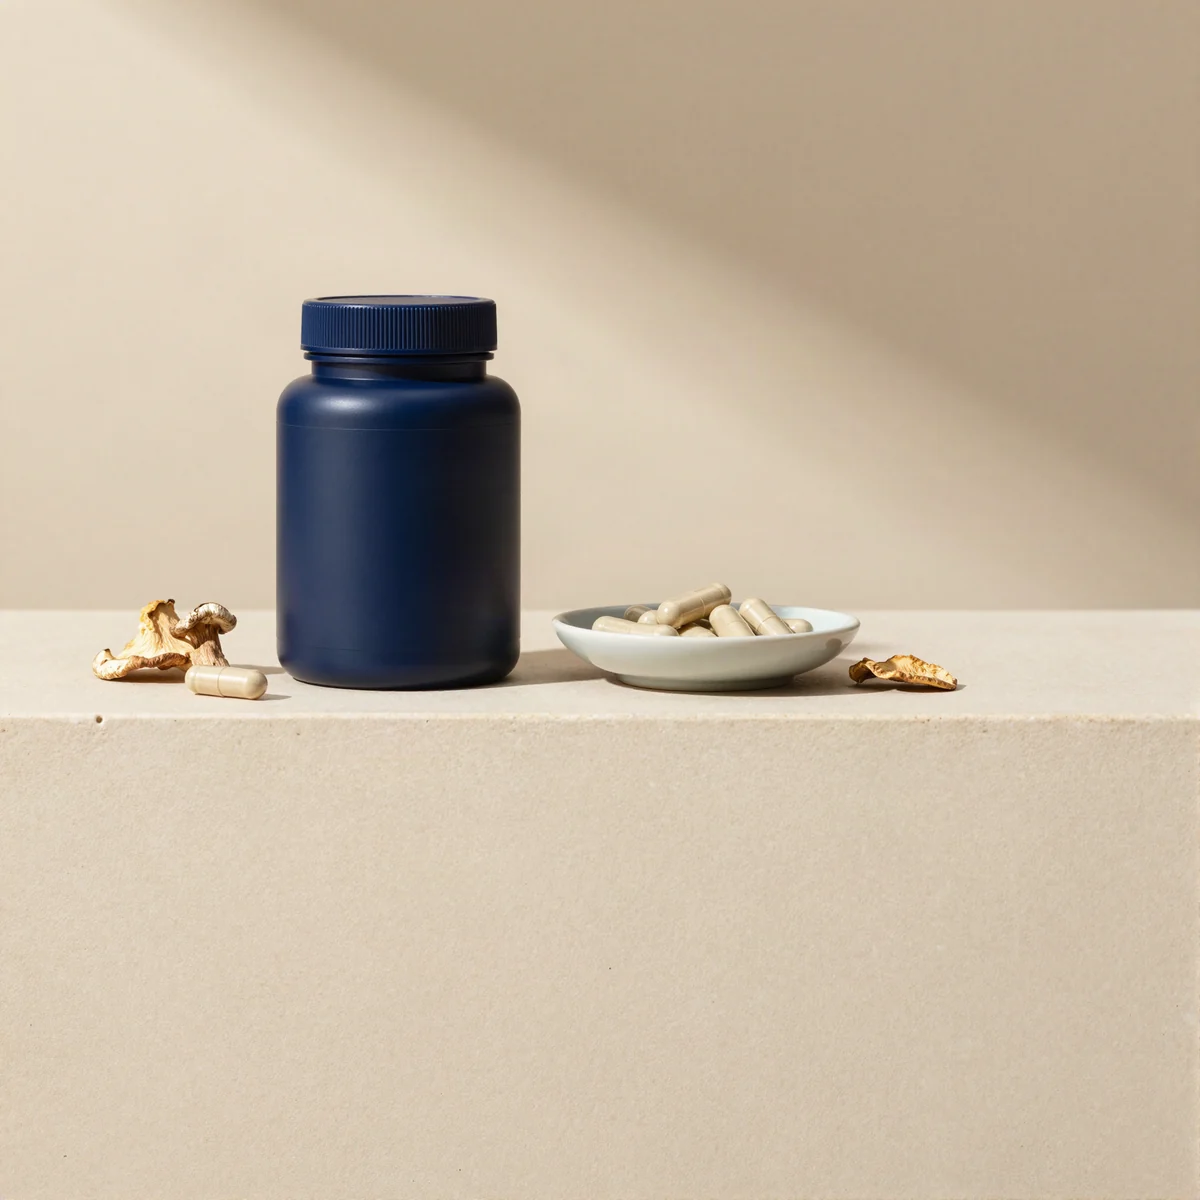
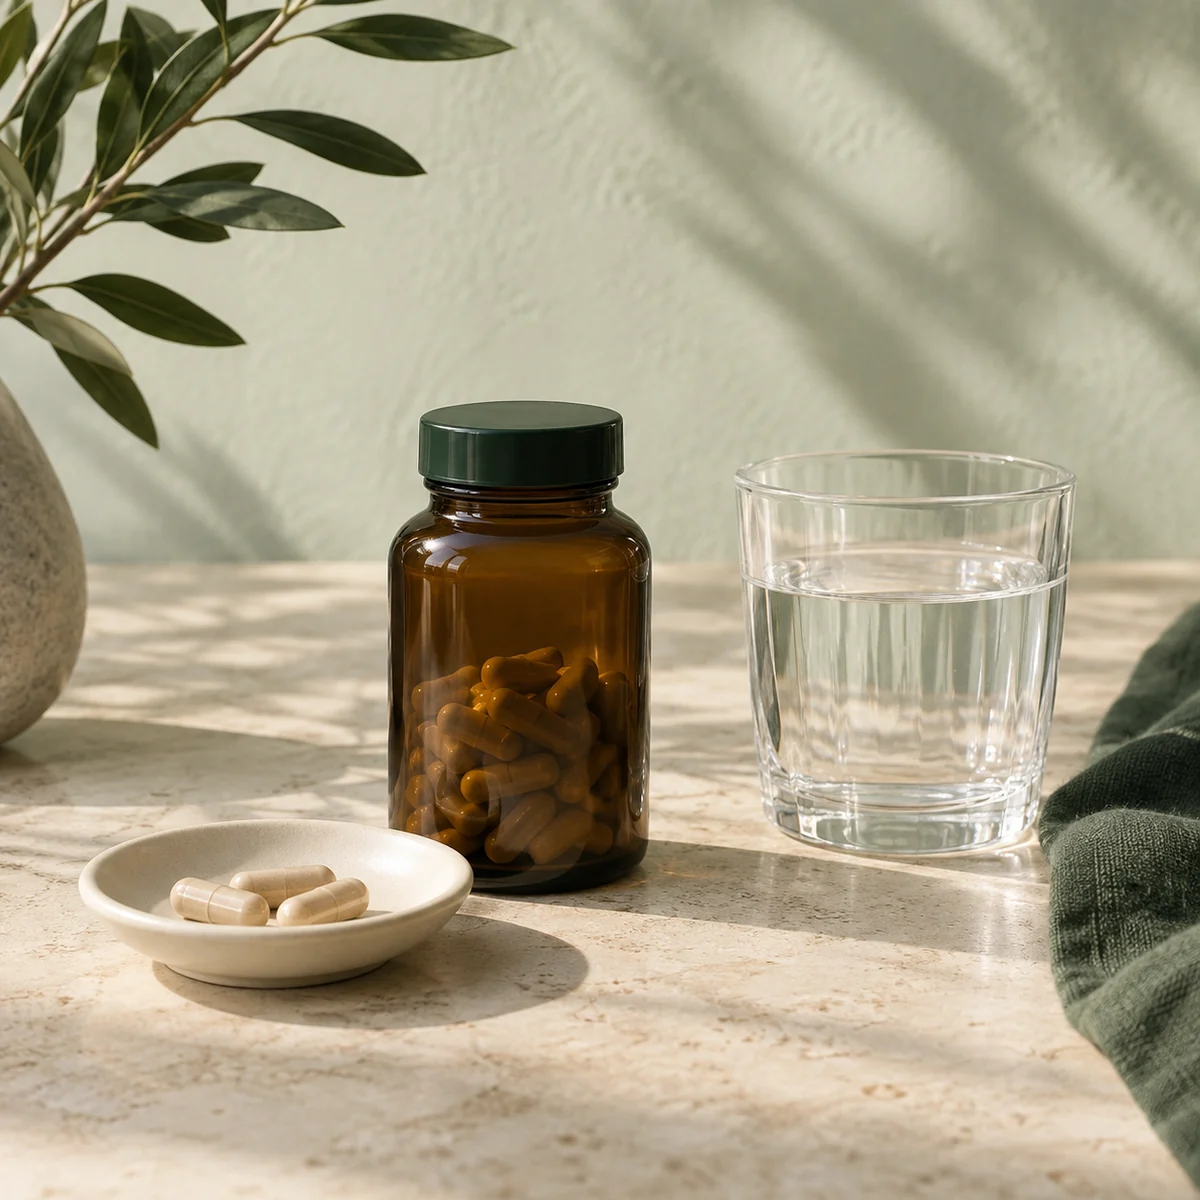
Vraie photo de Fati dans le hero, images de catégories du gérant
Le gérant a déposé cinq images à la racine du dossier des téléversements :
un hero large où Fati se tient à droite sur un mur sauge, et quatre natures
mortes pour les catégories. L'une, nommée « cat-beaute », montrait la
théière : elle est reclassée en Alimentation & boissons.

Le portrait est recadré en 3:4 sur la silhouette, détectée par la variance
des colonnes, le mur uni ne variant pas. Le portrait généré est retiré de la
médiathèque : le risque numéro un du brief, une fausse personne sur un site
dont la promesse est « une vraie personne qui répond », est levé. Les
originaux sont archivés hors médiathèque, la version large en réserve.

Trois défauts du hero mesurés après l'unification de la largeur. Il faisait
918 px de haut : l'image imposait sa hauteur intrinsèque à la rangée, elle
sort du flux. Le titre repassait à quatre lignes à 1440 : le bord à 80 px
avait repris 16 px à une colonne plafonnée à 736, portée à 52 rem. À 1024,
58 % ne laissaient que 517 px : palier tablette 63 / 37.

Les visuels de catégories entrent dans le script de réinstallation, sans
quoi ils auraient disparu à la prochaine réinitialisation.

Vérifié : 10 pages × 4 largeurs, puis 320, 1280, 1600 et 1920 px, aucune
erreur console, aucun débordement, aucune image cassée, aucun échec de
contraste, titre sur trois lignes à 1024, 1280 et 1440.

diff --git a/wp-content/themes/fatichanelya/assets/css/main.css b/wp-content/themes/fatichanelya/assets/css/main.css
@@ -77,7 +77,7 @@
     system-ui,-apple-system,"Helvetica Neue",Arial,sans-serif;
   --font-display:var(--font-body);
 
-  --fs-hero:clamp(2.35rem,1.5rem + 3.4vw,3.65rem);
+  --fs-hero:clamp(2.35rem,1rem + 3.3vw,3.65rem);
   --fs-h2:clamp(1.85rem,1.35rem + 2vw,2.85rem);
   --fs-h3:clamp(1.15rem,1.05rem + .45vw,1.4rem);
   --fs-body:clamp(.95rem,.92rem + .16vw,1.02rem);
@@ -297,7 +297,7 @@ h1 em,h2 em{font-style:normal;color:var(--gold-ink)}
 .hero-copy{display:grid;align-content:center;justify-items:start;
   padding-inline:var(--bord) clamp(1.5rem,3vw,2.5rem);
   padding-block:clamp(3rem,7vw,5.5rem);
-  max-width:46rem;z-index:1}
+  max-width:52rem;z-index:1}
 
 /* Le titre est l'élément LCP : aucune animation, il est là au premier rendu.
    La seconde ligne passe en or, comme sur la maquette. */
@@ -321,8 +321,10 @@ h1 em,h2 em{font-style:normal;color:var(--gold-ink)}
 /* Portrait pleine hauteur, fondu vers le beige côté texte. */
 .hero-portrait{position:relative;margin:0;align-self:stretch;
   min-block-size:100%;overflow:hidden}
-.hero-portrait img{inline-size:100%;block-size:100%;
-  object-fit:cover;object-position:center 22%}
+/* Hors flux : sinon l'image impose sa hauteur intrinsèque à la rangée
+   (620 × 941 à 605 px de large donnait un hero de 918 px). */
+.hero-portrait img{position:absolute;inset:0;inline-size:100%;block-size:100%;
+  object-fit:cover;object-position:center 18%}
 .hero-portrait::before{content:"";position:absolute;inset-block:0;
   inset-inline-start:0;inline-size:38%;z-index:1;pointer-events:none;
   background:linear-gradient(to right,var(--paper),transparent)}
@@ -349,13 +351,20 @@ h1 em,h2 em{font-style:normal;color:var(--gold-ink)}
 .hero--sans-portrait .hero-copy{max-width:var(--container);
   margin-inline:auto;inline-size:100%}
 
+/* Entre la tablette en paysage et le petit écran, le texte reprend de la
+   largeur : à 1024 px, 58 % ne laissaient que 517 px au titre, qui passait
+   à quatre lignes. Le portrait n'a pas besoin de 42 % à cette taille. */
+@media (min-width:981px) and (max-width:1180px){
+  .hero{grid-template-columns:minmax(0,63%) minmax(0,37%)}
+}
+
 @media (max-width:980px){
   /* Le titre passe avant l'image : meilleure lisibilité de l'offre, et
      l'élément LCP reste du texte. */
   .hero{grid-template-columns:minmax(0,1fr);min-block-size:auto}
   .hero-copy{padding-block:clamp(2.5rem,7vw,3.5rem) 2rem;max-width:none}
   .hero h1{max-width:22ch}
-  .hero-portrait{block-size:min(68vh,520px)}
+  .hero-portrait{block-size:min(68vh,520px);min-block-size:0}
   .hero-portrait::before{inset-inline:0;inset-block-start:0;
     inline-size:100%;block-size:24%;
     background:linear-gradient(to bottom,var(--paper),transparent)}

diff --git a/_velix/analyse-uiux.md b/_velix/analyse-uiux.md
@@ -1,0 +1,52 @@
+# Analyse UI/UX — Fatichanelya
+
+Vague du 15 septembre 2026, à la demande du gérant. Périmètre : bugs d'affichage
+après l'unification de la largeur, et intégration des images fournies (hero et
+quatre catégories).
+
+Cas appliqué : **le gérant a décrit précisément les améliorations**. Pas d'analyse
+préalable séparée, le diagnostic est fait pièce par pièce en mesurant.
+
+---
+
+## Constats et corrections
+
+| # | Constat mesuré | Correction | État |
+|---|---|---|---|
+| 1 | Le hero affichait un **portrait généré**. Sur un site dont la promesse est « une vraie personne qui répond », c'était le risque numéro un du brief. | Vraie photo de Fati installée, recadrée en 3:4 sur sa silhouette (détectée par la variance des colonnes). L'ancien portrait est retiré de la médiathèque. | ✅ |
+| 2 | Les quatre catégories portaient des **natures mortes générées**. | Remplacées par les quatre images du gérant. Le cinquième fichier était nommé « cat-beaute » mais montrait la théière : reclassé en Alimentation & boissons. | ✅ |
+| 3 | **Hero de 918 px de haut** à 1440 : l'image imposait sa hauteur intrinsèque à la rangée (620 × 941 à 605 px de large). | Image sortie du flux (`position:absolute`), la rangée est fixée par le texte et le minimum. Hero à 727 px. | ✅ |
+| 4 | **Titre sur quatre lignes** à 1440 : le bord unifié à 80 px avait repris 16 px à une colonne déjà plafonnée à 736 px. | Colonne de texte portée à 52 rem, pente du `clamp` de la taille adoucie. Trois lignes à 1440 et 1280. | ✅ |
+| 5 | **Titre sur quatre lignes à 1024** : 58 % de largeur ne laissaient que 517 px. | Palier tablette : 63 / 37 entre 981 et 1180 px. Trois lignes à 1024. | ✅ |
+| 6 | Bandeau d'engagements : titres **décalés de 4 px** selon que le texte descriptif tenait sur une ou deux lignes. | `align-items:start` avec l'icône seule centrée. | ✅ |
+| 7 | Les visuels de catégories n'étaient pas dans le script de réinstallation : **perdus à la prochaine réinitialisation**. | Étape ajoutée à `tools/seed.sh`, nommage `cat-<slug>.webp`. | ✅ |
+
+## Fichiers modifiés
+
+- `tools/medias/pages/hero-fati.webp` — nouveau portrait, 46 Ko
+- `tools/medias/categories/cat-*.webp` — quatre images du gérant
+- `tools/medias/sources/` — originaux du gérant, conservés hors médiathèque
+- `tools/medias/reserve/hero-fati-large.webp` — version pleine largeur, si le gérant préfère
+- `wp-content/themes/fatichanelya/assets/css/main.css` — hero, bandeau
+- `tools/seed.sh` — import des visuels de catégories
+
+## Contrastes recontrôlés
+
+Aucun échec sur les sept pages mesurées. La signature du portrait, en blanc sur
+voile dégradé, a été mesurée sur les pixels : 18,24:1.
+
+## Vérifié au navigateur
+
+- 10 pages × 4 largeurs (375, 768, 1024, 1440) : zéro erreur console, zéro débordement, zéro image cassée
+- 4 pages × 4 largeurs supplémentaires (320, 1280, 1600, 1920) : bords alignés, aucun débordement
+- Hero : 727 px à 1440, titre sur 3 lignes à 1024, 1280 et 1440, portrait visible en mobile
+
+## Écarté volontairement
+
+- **Hero pleine largeur avec texte à droite.** L'image du gérant s'y prêterait (mur vide à gauche, Fati à droite), mais la maquette validée met le texte à gauche, et un aplat sauge sur toute la largeur réintroduirait une grande surface verte alors que le gérant l'a proscrite. La version large est en réserve.
+- **Recadrage plus serré sur le visage.** Le buste avec les bras croisés dit « entrepreneure » mieux qu'un gros plan.
+
+## Reste ouvert
+
+- Les visuels **produits** portent toujours le filigrane « DXN's Property ». Il faut les fichiers officiels du back-office de Fati, ou des photos de son stock.
+- Le numéro WhatsApp n'est pas renseigné : les boutons mènent à la page Contact.

diff --git a/_velix/journal.md b/_velix/journal.md
@@ -48,6 +48,9 @@ Une ligne par intervention. Les agents `velix-*` lisent ce dossier avant de trav
 | 2026-09-15 | chef de projet | **Alignement unifié sur tout le site.** Le contenu s'alignait à 80 px du bord (conteneur de 1280 px centré) tandis que l'en-tête utilisait la gouttière, qui vaut 64 px au-delà de 1422 px de large : un décalage de 16 px visible seulement sur grand écran, ce qui explique qu'il ait échappé aux vérifications précédentes. Nouveau jeton `--bord` : `max(gouttière, (100vw - conteneur) / 2)`, appliqué à l'en-tête, aux sections et aux blocs pleine largeur. Les recentrages redondants sont retirés. Vérifié sur 1024, 1280, 1440, 1600 et 1920 px : logo, hero, catégories et carrousel partagent exactement le même bord. | `main.css` |
 | 2026-09-15 | chef de projet | Deux ruptures de rythme corrigées, visibles seulement sur capture avec repères : le titre des catégories était centré à 352 px quand les trois autres titres de section s'alignent à gauche à 80 px, et la signature du portrait se calait sur le bord de l'image, qui va jusqu'au bord de l'écran, donc « Fati » sortait de la colonne de contenu. Les quatre titres partagent désormais le même bord. | `categories.php`, `main.css` |
 | 2026-09-15 | chef de projet | Icônes du bandeau d'engagements du haut portées de 20 à 44 px, au niveau de celles du pied de page. Le bandeau du haut (`trust`) et celui du pied (`assurance`) sont deux composants distincts : l'agrandissement précédent n'avait touché que le second. La taille est désormais posée en CSS et non par l'attribut de l'appel PHP, pour primer quel que soit l'appel. Règle de taille des pictogrammes ajoutée au système de design, avec le défaut rencontré. | `main.css`, `design-system.md` |
+| 2026-09-15 | chef de projet | **Vraie photo de Fati installée dans le hero.** Le gérant a déposé cinq images à la racine de `wp-content/uploads/2026/` : un hero large où Fati est à droite sur un mur sauge, et quatre natures mortes de catégories (l'une nommée « cat-beaute » montrait la théière, reclassée en Alimentation & boissons). Silhouette détectée par la variance des colonnes, recadrage 3:4, portrait généré retiré de la médiathèque. Originaux archivés dans `tools/medias/sources/`, version large en réserve. Le risque numéro un du brief est levé. | `hero-fati.webp`, `categories/` |
+| 2026-09-15 | chef de projet | Trois défauts du hero mesurés et corrigés après l'unification de la largeur. **918 px de haut** : l'image imposait sa hauteur intrinsèque à la rangée, elle sort du flux (727 px). **Titre à quatre lignes à 1440** : le bord à 80 px avait repris 16 px à une colonne plafonnée à 736, portée à 52 rem. **Quatre lignes à 1024** : palier tablette 63 / 37 entre 981 et 1180 px. Trois lignes partout. Vérifié : 10 pages × 4 largeurs, plus 320 / 1280 / 1600 / 1920, aucun débordement, aucun échec de contraste. | `main.css` |
+| 2026-09-15 | chef de projet | Import des visuels de catégories ajouté à `tools/seed.sh` (nommage `cat-<slug>.webp`) : ils étaient rattachés à la main et auraient disparu à la prochaine réinitialisation. Compte rendu de la vague dans `_velix/analyse-uiux.md`. | `seed.sh`, `analyse-uiux.md` |
 
 ## À fournir par le client
 
